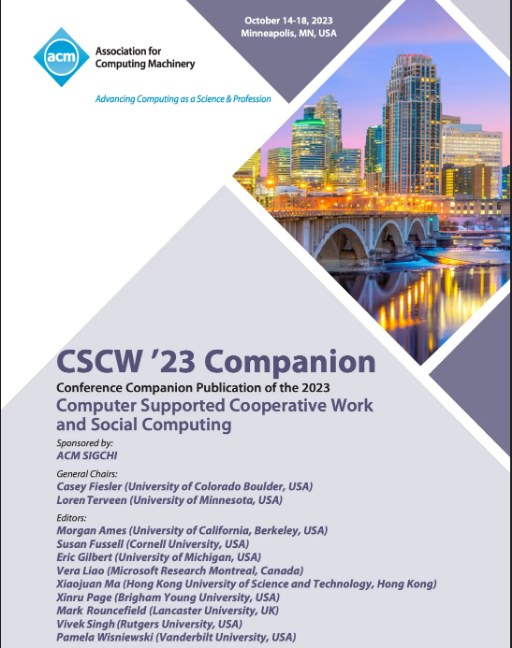
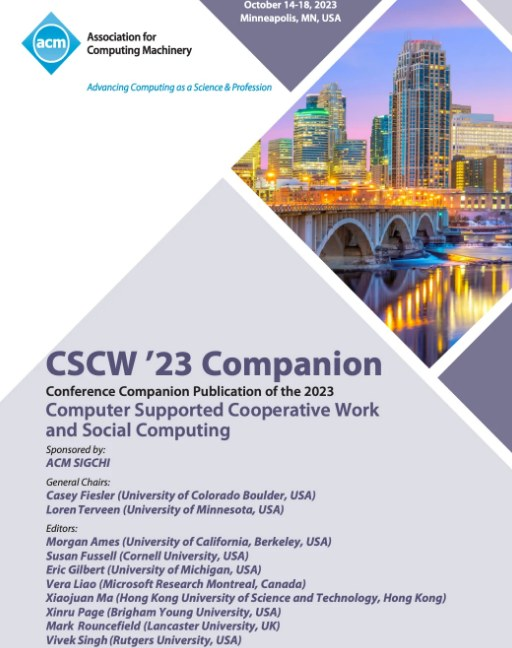
Zoom CSCW 23 crop past its dark border
Claude-Session: https://claude.ai/code/session_01PGBQS57RpPqe4dQN3b1VkF

diff --git a/publication.html b/publication.html
@@ -4,7 +4,7 @@
   <meta charset="UTF-8" />
   <meta name="viewport" content="width=device-width, initial-scale=1.0" />
   <title>Publication — Serene Cheon</title>
-  <link rel="stylesheet" href="style.css?v=397" />
+  <link rel="stylesheet" href="style.css?v=398" />
 </head>
 <body class="pub">
 
@@ -179,7 +179,7 @@
       </article>
 
 <article class="pub-card" data-areas="hai design" id="poster-2023">
-        <img class="pub-thumb" src="cscw23-cover.jpg?v=2" alt="CSCW 2023 Companion cover" />
+        <img class="pub-thumb" src="cscw23-cover.jpg?v=3" alt="CSCW 2023 Companion cover" />
         <div class="pub-card-txt">
           <div class="pub-venue">CSCW 2023</div>
           <div class="pub-card-info">

diff --git a/index.html b/index.html
@@ -5,7 +5,7 @@
   <meta name="viewport" content="width=device-width, initial-scale=1.0" />
   <title>Serene Cheon — UX Researcher</title>
   <meta name="description" content="Serene Cheon is a UX researcher based in Berkeley." />
-  <link rel="stylesheet" href="style.css?v=397" />
+  <link rel="stylesheet" href="style.css?v=398" />
 </head>
 <body class="home">
 

diff --git a/about.html b/about.html
@@ -4,7 +4,7 @@
   <meta charset="UTF-8" />
   <meta name="viewport" content="width=device-width, initial-scale=1.0" />
   <title>About — Serene Cheon</title>
-  <link rel="stylesheet" href="style.css?v=397" />
+  <link rel="stylesheet" href="style.css?v=398" />
 </head>
 <body>
 

diff --git a/work.html b/work.html
@@ -4,7 +4,7 @@
   <meta charset="UTF-8" />
   <meta name="viewport" content="width=device-width, initial-scale=1.0" />
   <title>Work — Serene Cheon</title>
-  <link rel="stylesheet" href="style.css?v=397" />
+  <link rel="stylesheet" href="style.css?v=398" />
 </head>
 <body>
 
